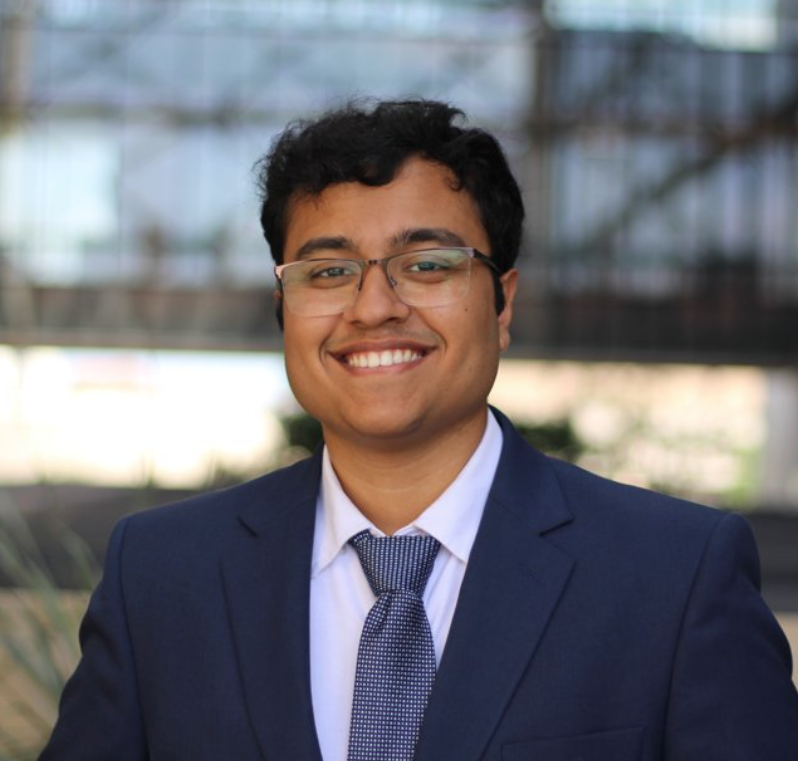
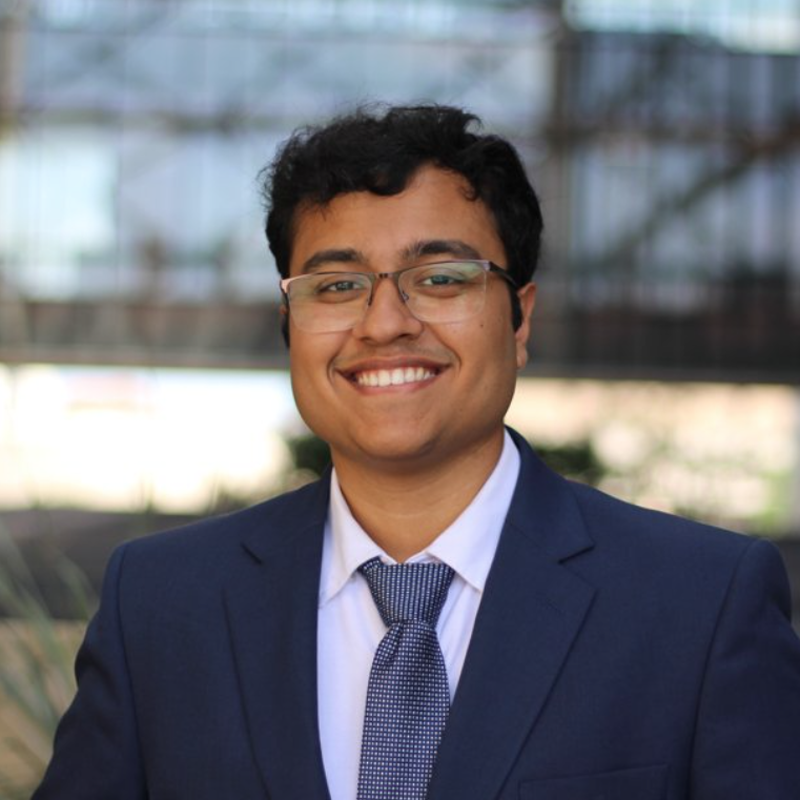
Update students page roster and layout; fix publication title wrapping
Students page:
- Remove Won Joon Yun (page, photo, profile entry)
- Add Pawan Kashyap and Aayush Merchant with LinkedIn links
- Add a Graduated Students section and move Ravi Ghadia into it
- Order current students: Avinash, Sourish, Dongwhee, Pawan, Aayush
- Update research areas for Sourish and Avinash to "Systems, Efficient AI"
- Crop all profile photos to a uniform 800x800 square, centered on the face
- Three cards per row with tighter type; factor the card markup into
  _includes/profile_card.liquid so the two sections share it

Publications page:
- Widen to 1000px so 24 of 26 titles fit on one line; the two longest
  (LILLIPUT, HAMMER) balance across two lines instead of stranding a
  single word. No title text was changed.
- Pin the venue badge column to 142px so badges sit near their titles
  rather than ~100px away

Also fix _plugins/cache-bust.rb, which hashed the non-existent directory
assets/_sass and so emitted md5("") as a permanent cache-buster. It now
hashes _sass, so stylesheet changes actually invalidate the cached CSS.

diff --git a/_sass/_base.scss b/_sass/_base.scss
@@ -1102,3 +1102,107 @@ swiper-container {
   --swiper-pagination-color: var(--global-theme-color);
   --swiper-pagination-bullet-inactive-color: var(--global-text-color);
 }
+
+// Widening the badge column shifts the titles right: further from the venue
+// badge, closer to the year. The year gutter shrinks by the same amount so the
+// title column keeps its width and no extra titles wrap.
+// Widest badge is 88px; the year text is 71px.
+$pub-badge-col: 142px;
+$pub-year-gutter: 110px;
+
+// Profile cards (students page)
+
+.profile-group-title {
+  margin-top: 1rem;
+  margin-bottom: 1rem;
+}
+
+// These two pages need more room than the site-wide $max-content-width:
+// the student grid is 3 cards across, and publication titles should not wrap.
+// Must target the outer content container -- an inner .container is clamped by it.
+// Both containers must be widened: the profiles layout nests its own
+// .container inside the page's, and the narrower of the two wins.
+.container:has(.profiles-page),
+.profiles-page .container {
+  max-width: 1080px;
+}
+
+// Every title fits on one line except the two longest, which may wrap:
+// HAMMER and LILLIPUT. The next-longest (Promatch) needs 697px of title
+// column, which is what sets the width below.
+.container:has(.publications-page) {
+  max-width: 1000px;
+
+  .publications ol.bibliography li {
+    // The venue badge column is 2/12 of the container, which strands the badge
+    // ~100px from the title it labels. Pin it to just wider than the widest
+    // badge instead, and give the reclaimed space to the title.
+    .col-sm-2 {
+      flex: 0 0 $pub-badge-col;
+      max-width: $pub-badge-col;
+    }
+
+    .col-sm-8 {
+      // reserve the right-hand gutter that the year heading sits in
+      flex: 0 0 calc(100% - #{$pub-badge-col} - #{$pub-year-gutter});
+      max-width: none;
+    }
+
+    // Only LILLIPUT and HAMMER are long enough to wrap at this width, and
+    // greedy wrapping strands a single word ("Correction", "Outcomes") on
+    // line 2. Balancing splits them evenly instead. No-op for the other 24,
+    // which are single-line.
+    .title {
+      text-wrap: balance;
+      // ...and drop the inherited `justify`, which would stretch the now-shorter
+      // first line across the full column. Identical rendering for the 24
+      // single-line titles; only the two wrapped ones are affected.
+      text-align: left;
+    }
+  }
+}
+
+.profile-card {
+  .card-body {
+    padding: 1rem;
+  }
+
+  // the shared page layout justifies article text, which shreds these
+  // narrow columns with stretched spacing and widowed words
+  .card-text,
+  li,
+  h2,
+  h5 {
+    text-align: left;
+    overflow-wrap: break-word;
+  }
+
+  img {
+    aspect-ratio: 1 / 1;
+    object-fit: cover;
+    margin-bottom: 0.75rem !important;
+  }
+
+  h2 {
+    font-size: 1.1rem;
+    margin-bottom: 0.2rem;
+  }
+
+  h5 {
+    font-size: 0.8rem;
+    font-weight: 400;
+    margin-bottom: 0.6rem;
+  }
+
+  .card-text {
+    font-size: 0.8rem;
+    margin-bottom: 0;
+  }
+
+  ul {
+    padding-left: 1.1rem;
+    margin-bottom: 0;
+    font-size: 0.85rem;
+    line-height: 1.5;
+  }
+}

diff --git a/_plugins/cache-bust.rb b/_plugins/cache-bust.rb
@@ -43,7 +43,7 @@ module Jekyll
         end
 
         def bust_css_cache(file_name)
-            CacheDigester.new(file_name: file_name, directory: 'assets/_sass').digest!
+            CacheDigester.new(file_name: file_name, directory: '_sass').digest!
         end
     end
 end

diff --git a/_pages/profiles.md b/_pages/profiles.md
@@ -17,17 +17,11 @@ profiles:
     image_circular: false # crops the image to make it circular
 
   - align: right
-    image: won_joon_yun.jpeg
-    content: about_wonjoon.md
-    hyperink: https://www.wonjoonyun.com
+    image: sourish_wawdhane.png
+    content: about_sourish.md
+    hyperlink: https://www.linkedin.com/in/sourishw/
     image_circular: false # crops the image to make it circular
 
-  - align: right
-    image: ravi_ghadia.jpg
-    content: about_ravi.md
-    hyperlink: https://ghadiaravi13.github.io/
-    image_circular: false # crops the image to make it circular
-  
   - align: right
     image: dongwheenew.jpg
     content: about_dongwhee.md
@@ -35,8 +29,21 @@ profiles:
     image_circular: false # crops the image to make it circular
 
   - align: right
-    image: sourish_wawdhane.png
-    content: about_sourish.md
-    hyperlink: https://www.linkedin.com/in/sourishw/
+    image: pawan_kashyap.jpg
+    content: about_pawan.md
+    hyperlink: https://www.linkedin.com/in/pkash05/
+    image_circular: false # crops the image to make it circular
+
+  - align: right
+    image: aayush_merchant.jpg
+    content: about_aayush.md
+    hyperlink: https://www.linkedin.com/in/aayush-merchant-217540215/
+    image_circular: false # crops the image to make it circular
+
+graduated:
+  - align: right
+    image: ravi_ghadia.jpg
+    content: about_ravi.md
+    hyperlink: https://ghadiaravi13.github.io/
     image_circular: false # crops the image to make it circular
 ---

diff --git a/_pages/about_avinash.md b/_pages/about_avinash.md
@@ -3,6 +3,6 @@
 ##### avinkumar@utexas.edu
 
 - Ph.D student, joined Fall 2025
-- M.S. 2025 The University of Texas at Austin
+- M.S. 2025 UT Austin
 - B.Tech. 2020 National Institute of Technology, Karnataka, India
-- Systems, Efficient ML
+- Systems, Efficient AI

diff --git a/_pages/about_sourish.md b/_pages/about_sourish.md
@@ -3,5 +3,5 @@
 ##### sourishw@gmail.com
 
 - M.S student, joined Fall 2025
-- B.S. 2025 The University of Texas at Austin
-- Quantum Software, Efficient LLMs
+- B.S. 2025 UT Austin
+- Systems, Efficient AI

diff --git a/_pages/about_pawan.md b/_pages/about_pawan.md
@@ -1,0 +1,7 @@
+## Pawan Kashyap
+
+##### pawan.kashyap@utexas.edu
+
+- Ph.D student, joined Fall 2026
+- B.S. 2026 UT Austin
+- Quantum Computing Architecture and Error Correction

diff --git a/_pages/publications.md b/_pages/publications.md
@@ -9,7 +9,7 @@ nav_order: 2
 ---
 
 <!-- _pages/publications.md -->
-<div class="publications">
+<div class="publications publications-page">
 
 {% bibliography %}
 

diff --git a/_pages/about_aayush.md b/_pages/about_aayush.md
@@ -1,0 +1,7 @@
+## Aayush Merchant
+
+##### aayushmerchant@utexas.edu
+
+- M.S student, joined Spring 2026
+- B.S. 2025 UT Austin
+- Quantum Error Correction
